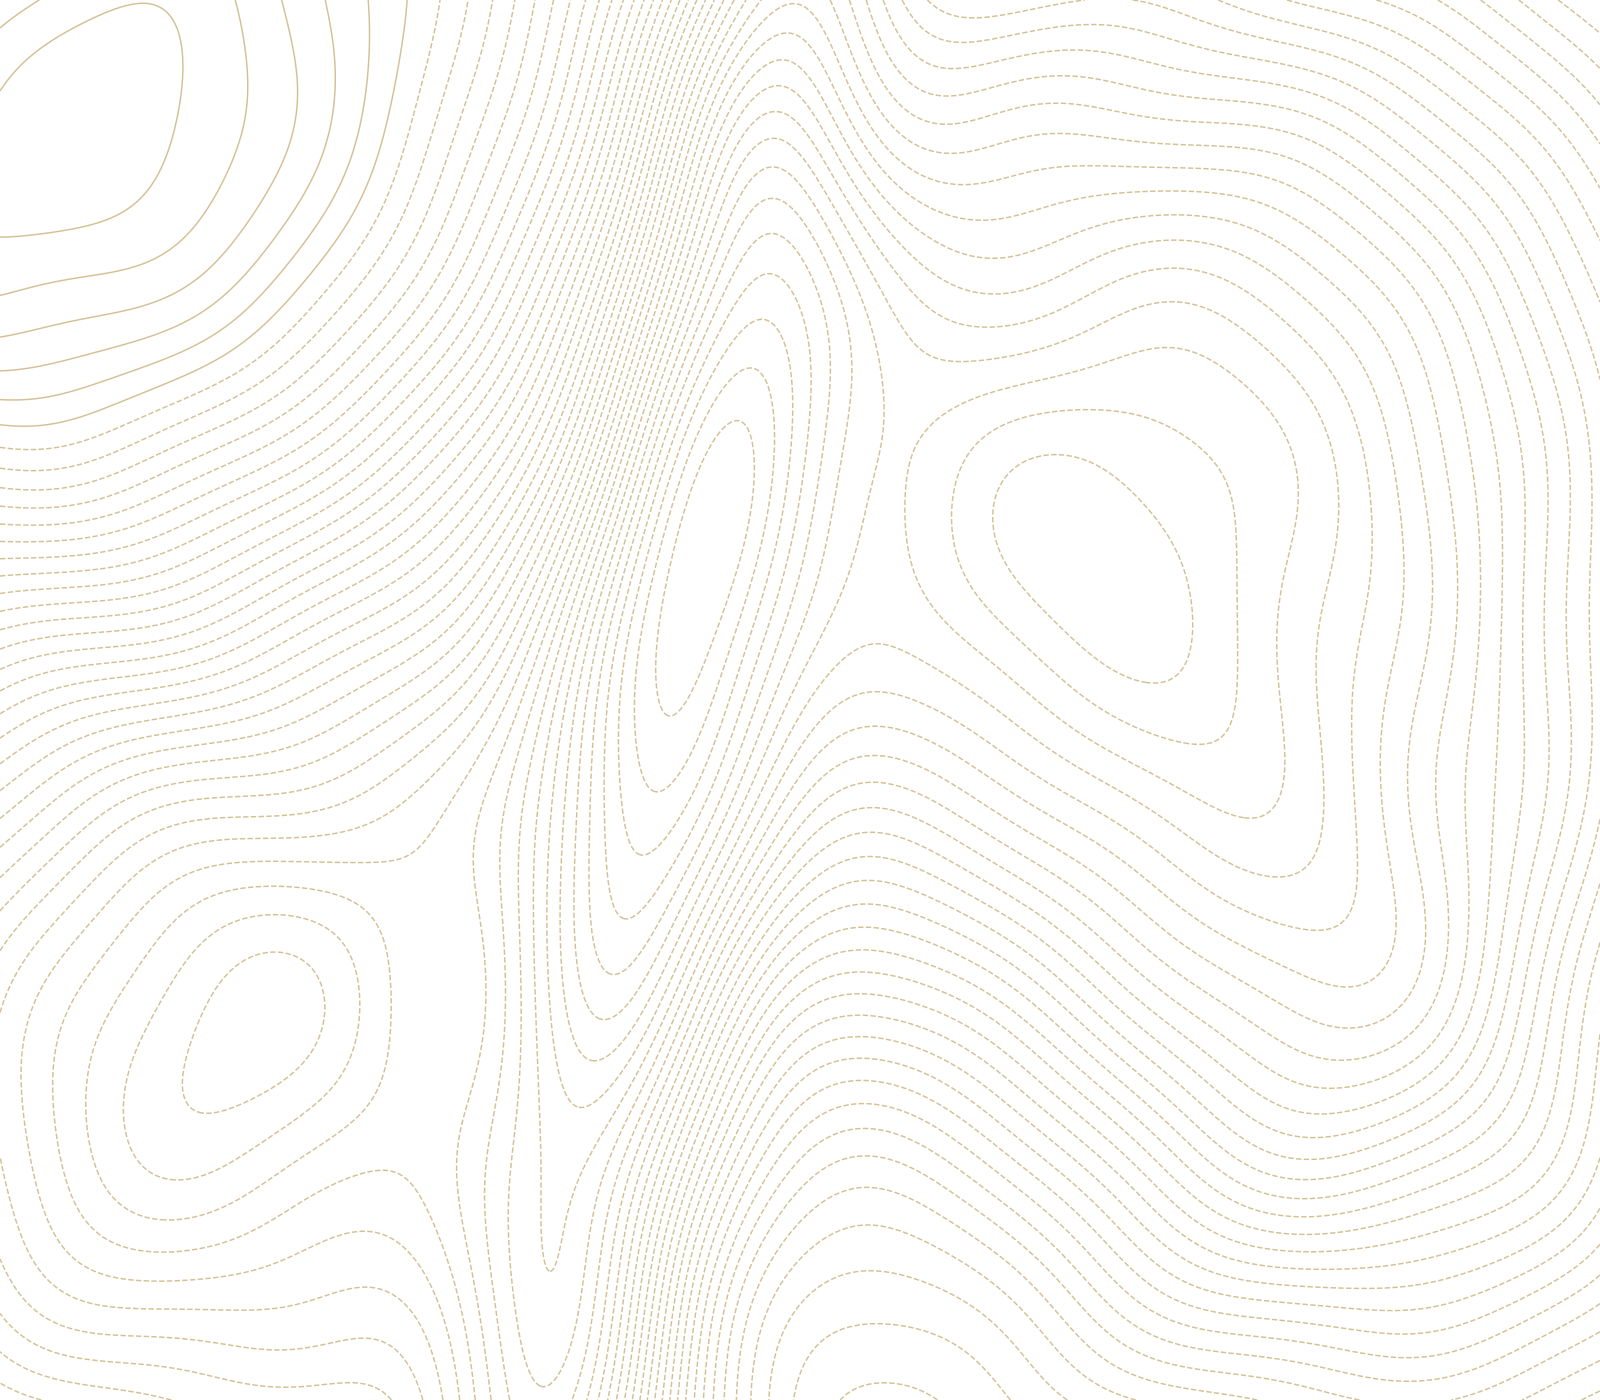
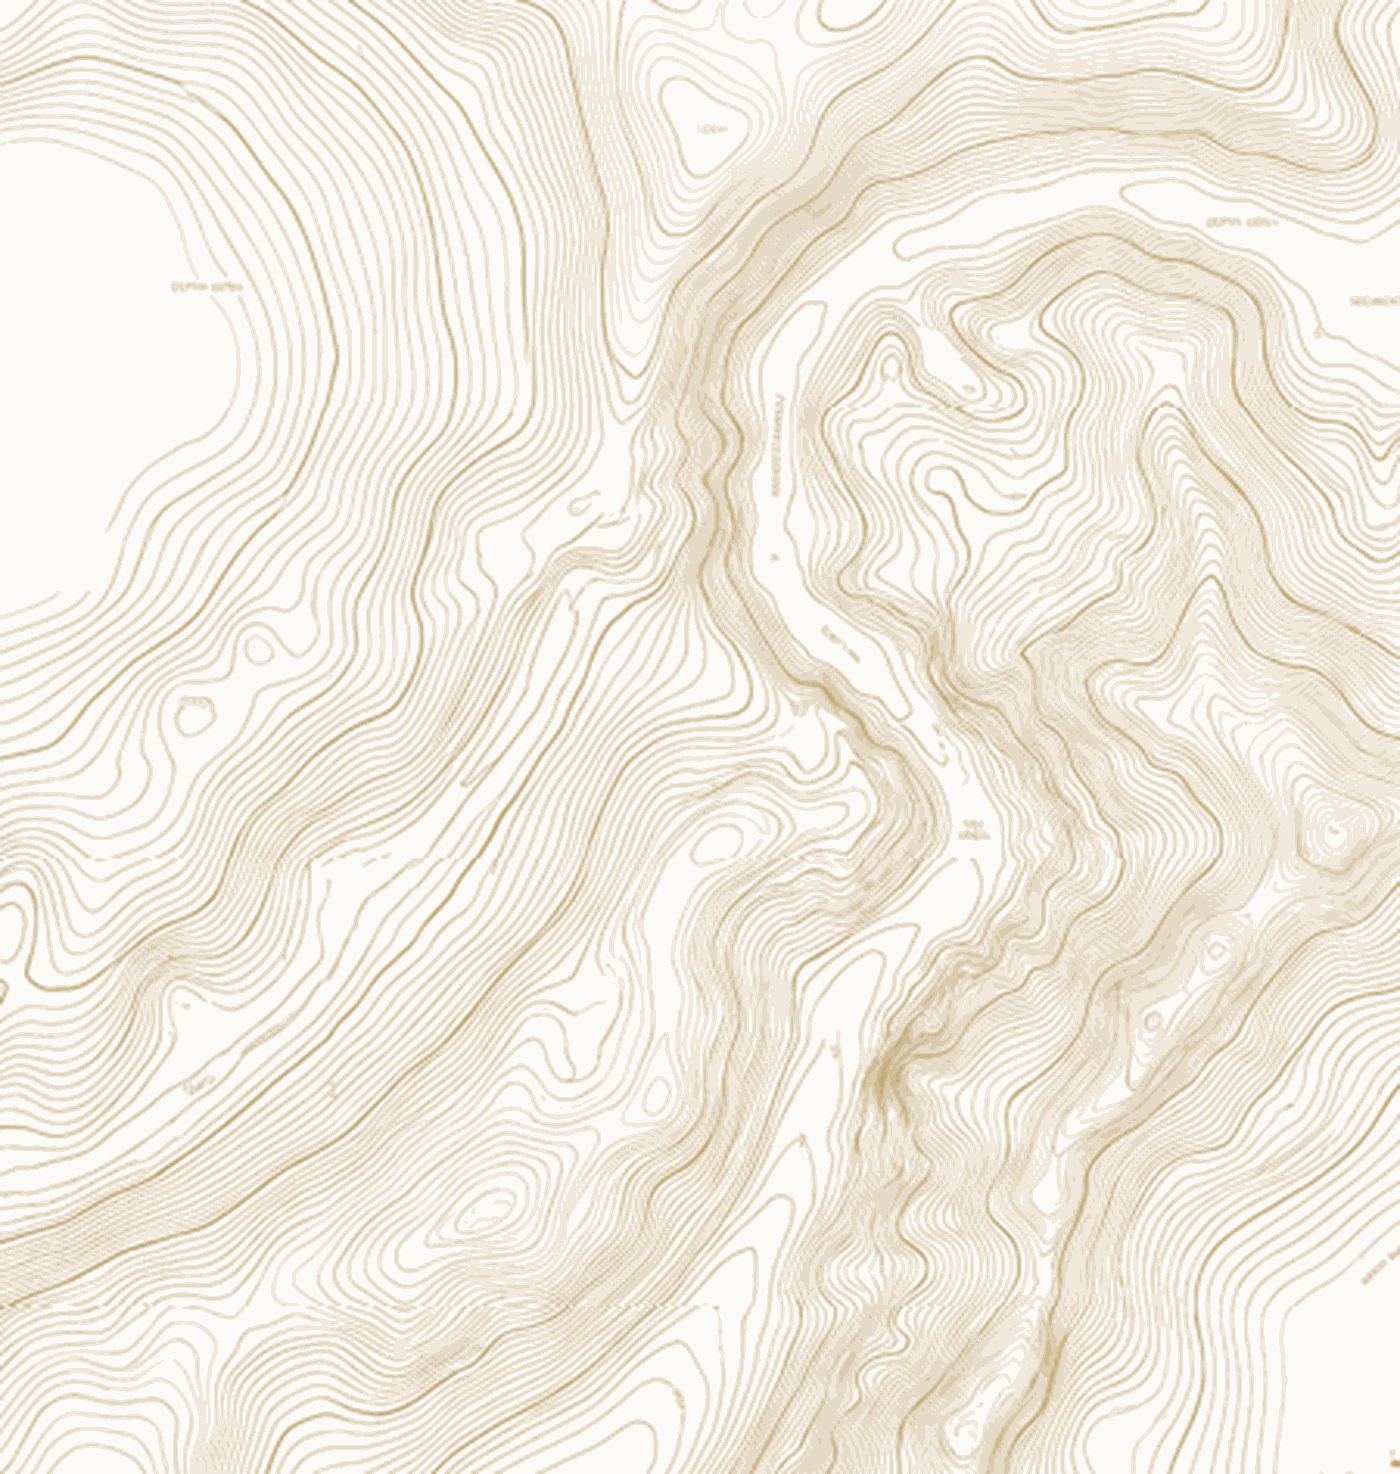
Add files via upload

diff --git a/style.css b/style.css
@@ -7,13 +7,14 @@
 :root {
   --ivory: #F6F1E3;
   --ivory-deep: #EFE8D5;
-  --navy: #16233B;
-  --navy-soft: #2C3B57;
-  --navy-hair: rgba(22, 35, 59, 0.16);
+  --navy: #1E3358;
+  --navy-soft: #3A4E70;
+  --navy-hair: rgba(30, 51, 88, 0.18);
   --gold: #A9843C;
   --gold-soft: #C7A45E;
+  --gold-text: #644718;
   --gold-faint: rgba(169, 132, 60, 0.35);
-  --paper-shadow: rgba(22, 35, 59, 0.08);
+  --paper-shadow: rgba(30, 51, 88, 0.08);
 
   --font-display: "Fraunces", "Iowan Old Style", serif;
   --font-body: "Source Serif 4", "Georgia", serif;
@@ -52,10 +53,11 @@ img { max-width: 100%; display: block; }
 /* ---------- coordinate eyebrow ---------- */
 .coord {
   font-family: var(--font-mono);
-  font-size: 12px;
-  letter-spacing: 0.14em;
+  font-size: 13px;
+  font-weight: 500;
+  letter-spacing: 0.1em;
   text-transform: uppercase;
-  color: var(--gold);
+  color: var(--gold-text);
 }
 
 /* ---------- header ---------- */
@@ -94,9 +96,9 @@ header.site-head {
 .brand-name small {
   display: block;
   font-family: var(--font-mono);
-  font-size: 10px;
-  letter-spacing: 0.16em;
-  color: var(--gold);
+  font-size: 11px;
+  letter-spacing: 0.1em;
+  color: var(--gold-text);
   font-weight: 500;
   margin-top: 2px;
 }
@@ -135,7 +137,7 @@ nav.primary a[aria-current="page"] {
 }
 .hero .lede {
   font-size: 19px;
-  max-width: 620px;
+  max-width: 780px;
   color: var(--navy-soft);
   margin: 0 0 8px;
 }
@@ -156,10 +158,11 @@ h2.section-title {
 }
 .eyebrow {
   font-family: var(--font-mono);
-  font-size: 12px;
-  letter-spacing: 0.14em;
+  font-size: 13px;
+  font-weight: 500;
+  letter-spacing: 0.1em;
   text-transform: uppercase;
-  color: var(--gold);
+  color: var(--gold-text);
   margin: 0 0 12px;
   display: block;
 }
@@ -210,9 +213,10 @@ h2.section-title {
 .standards li:last-child { border-right: none; }
 .standards .ref {
   font-family: var(--font-mono);
-  font-size: 12px;
-  color: var(--gold);
-  letter-spacing: 0.06em;
+  font-size: 13px;
+  font-weight: 500;
+  color: var(--gold-text);
+  letter-spacing: 0.05em;
   display: block;
   margin-bottom: 8px;
 }
@@ -252,25 +256,27 @@ h2.section-title {
   height: 100%;
   object-fit: cover;
   object-position: center top;
-  filter: grayscale(1) contrast(1.05) brightness(1.02) sepia(0.18) hue-rotate(170deg) saturate(0.9);
-  mix-blend-mode: normal;
 }
 .portrait-frame .frame-coord {
   position: absolute;
-  bottom: 8px;
-  left: 10px;
+  bottom: 0;
+  left: 0;
+  right: 0;
+  padding: 5px 10px;
   font-family: var(--font-mono);
-  font-size: 9px;
+  font-size: 10.5px;
   letter-spacing: 0.08em;
-  color: var(--gold-soft);
+  color: #F0E4C8;
+  background: rgba(30, 51, 88, 0.72);
   text-transform: uppercase;
 }
 .member-role {
   font-family: var(--font-mono);
-  font-size: 12px;
-  letter-spacing: 0.1em;
+  font-size: 13px;
+  font-weight: 500;
+  letter-spacing: 0.08em;
   text-transform: uppercase;
-  color: var(--gold);
+  color: var(--gold-text);
   margin: 0 0 6px;
 }
 .member-name {
@@ -295,38 +301,42 @@ h2.section-title {
   background: rgba(255, 253, 246, 0.55);
   max-width: 480px;
 }
-.contact-panel .coord { margin-bottom: 14px; display: block; }
-.contact-panel dl { margin: 0; }
+.contact-panel .coord { margin-bottom: 20px; display: block; }
+.contact-panel dl {
+  margin: 0;
+  display: grid;
+  row-gap: 20px;
+}
+.contact-panel .field { display: grid; row-gap: 5px; }
 .contact-panel dt {
   font-family: var(--font-mono);
-  font-size: 11px;
-  letter-spacing: 0.1em;
+  font-size: 12px;
+  letter-spacing: 0.08em;
   text-transform: uppercase;
-  color: var(--gold);
-  margin-top: 18px;
+  color: var(--gold-text);
+  margin: 0;
 }
-.contact-panel dt:first-child { margin-top: 0; }
-.contact-panel dd { margin: 4px 0 0; font-size: 16px; color: var(--navy); }
+.contact-panel dd { margin: 0; font-size: 16px; color: var(--navy); }
 
 /* ---------- footer ---------- */
 footer.site-foot {
   border-top: 1px solid var(--navy-hair);
   margin-top: 40px;
-  padding: 40px 0 52px;
+  padding: 32px 0 40px;
 }
 .foot-inner {
   display: flex;
   justify-content: space-between;
   gap: 24px;
   flex-wrap: wrap;
-  align-items: flex-end;
+  align-items: center;
 }
-.foot-inner .coord { margin-bottom: 8px; display: block; }
-footer address {
-  font-style: normal;
-  font-size: 13.5px;
+.foot-name {
+  font-family: var(--font-mono);
+  font-size: 12px;
+  letter-spacing: 0.08em;
+  text-transform: uppercase;
   color: var(--navy-soft);
-  line-height: 1.6;
 }
 footer .foot-nav { display: flex; gap: 26px; }
 footer .foot-nav a {
@@ -336,13 +346,16 @@ footer .foot-nav a {
   text-transform: uppercase;
   color: var(--navy-soft);
 }
-footer .foot-nav a:hover { color: var(--gold); }
+footer .foot-nav a:hover { color: var(--gold-text); }
 footer .legal {
   font-family: var(--font-mono);
   font-size: 11px;
   color: var(--navy-soft);
-  opacity: 0.7;
-  margin-top: 28px;
+  opacity: 0.75;
+  text-align: center;
+  margin-top: 24px;
+  padding-top: 24px;
+  border-top: 1px solid var(--navy-hair);
 }
 
 /* ---------- responsive ---------- */

diff --git a/data-privacy.html b/data-privacy.html
@@ -15,7 +15,7 @@
 <header class="site-head">
   <div class="head-inner">
     <a class="brand" href="index.html">
-      <img src="assets/logo.jpg" alt="Semba AI mark">
+      <img src="assets/logo.png" alt="Semba AI mark">
       <span class="brand-name">Semba AI<small>Independent Data Custodian</small></span>
     </a>
     <nav class="primary">
@@ -45,14 +45,10 @@
       <div class="contact-panel">
         <span class="coord">Semba AI</span>
         <dl>
-          <dt>Registered office</dt>
-          <dd>27 Old Gloucester Street, London WC1N 3AX</dd>
-          <dt>Incorporated</dt>
-          <dd>England &amp; Wales, Reg. No. 17185211</dd>
-          <dt>Telephone</dt>
-          <dd>[phone redacted]</dd>
-          <dt>Email</dt>
-          <dd>[email redacted]</dd>
+          <div class="field"><dt>Registered office</dt><dd>27 Old Gloucester Street, London WC1N 3AX</dd></div>
+          <div class="field"><dt>Incorporated</dt><dd>England &amp; Wales, Reg. No. 17185211</dd></div>
+          <div class="field"><dt>Telephone</dt><dd>[phone redacted]</dd></div>
+          <div class="field"><dt>Email</dt><dd>[email redacted]</dd></div>
         </dl>
       </div>
     </div>
@@ -62,14 +58,7 @@
 <footer class="site-foot">
   <div class="wrap">
     <div class="foot-inner">
-      <div>
-        <span class="coord">Semba AI</span>
-        <address>
-          Incorporated in England &amp; Wales, Reg. No. 17185211<br>
-          27 Old Gloucester Street, London WC1N 3AX<br>
-          [phone redacted] · [email redacted]
-        </address>
-      </div>
+      <span class="foot-name">Semba AI · Reg. No. 17185211</span>
       <nav class="foot-nav">
         <a href="index.html">Home</a>
         <a href="the-board.html">The Board</a>

diff --git a/index.html b/index.html
@@ -15,7 +15,7 @@
 <header class="site-head">
   <div class="head-inner">
     <a class="brand" href="index.html">
-      <img src="assets/logo.jpg" alt="Semba AI mark">
+      <img src="assets/logo.png" alt="Semba AI mark">
       <span class="brand-name">Semba AI<small>Independent Data Custodian</small></span>
     </a>
     <nav class="primary">
@@ -31,7 +31,7 @@
     <div class="wrap">
       <span class="coord">51.5237° N, 0.1198° W · LONDON WC1</span>
       <h1>An independent custodian for the Semantic&nbsp;Bathymetry™ dataset.</h1>
-      <p class="lede">Semba AI is a company limited by guarantee and has no shareholders. It operates as an oversight body at arm's length within the Cognitif Group, and acts as an independent data custodian.</p>
+      <p class="lede">Custodianship is held apart from Cognitif Group's commercial operations, under named independent oversight rather than internal management discretion.</p>
     </div>
   </section>
 
@@ -82,14 +82,7 @@
 <footer class="site-foot">
   <div class="wrap">
     <div class="foot-inner">
-      <div>
-        <span class="coord">Semba AI</span>
-        <address>
-          Incorporated in England &amp; Wales, Reg. No. 17185211<br>
-          27 Old Gloucester Street, London WC1N 3AX<br>
-          [phone redacted] · [email redacted]
-        </address>
-      </div>
+      <span class="foot-name">Semba AI · Reg. No. 17185211</span>
       <nav class="foot-nav">
         <a href="index.html">Home</a>
         <a href="the-board.html">The Board</a>

diff --git a/the-board.html b/the-board.html
@@ -15,7 +15,7 @@
 <header class="site-head">
   <div class="head-inner">
     <a class="brand" href="index.html">
-      <img src="assets/logo.jpg" alt="Semba AI mark">
+      <img src="assets/logo.png" alt="Semba AI mark">
       <span class="brand-name">Semba AI<small>Independent Data Custodian</small></span>
     </a>
     <nav class="primary">
@@ -84,14 +84,7 @@
 <footer class="site-foot">
   <div class="wrap">
     <div class="foot-inner">
-      <div>
-        <span class="coord">Semba AI</span>
-        <address>
-          Incorporated in England &amp; Wales, Reg. No. 17185211<br>
-          27 Old Gloucester Street, London WC1N 3AX<br>
-          [phone redacted] · [email redacted]
-        </address>
-      </div>
+      <span class="foot-name">Semba AI · Reg. No. 17185211</span>
       <nav class="foot-nav">
         <a href="index.html">Home</a>
         <a href="the-board.html">The Board</a>